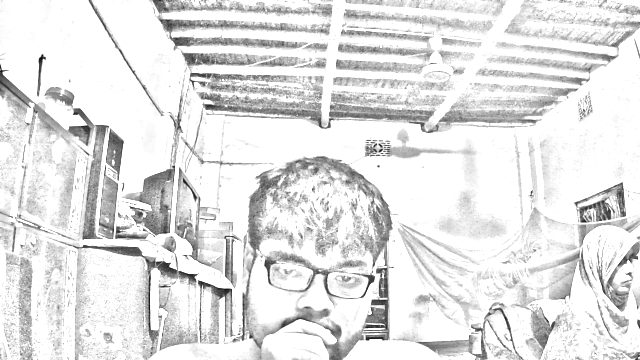
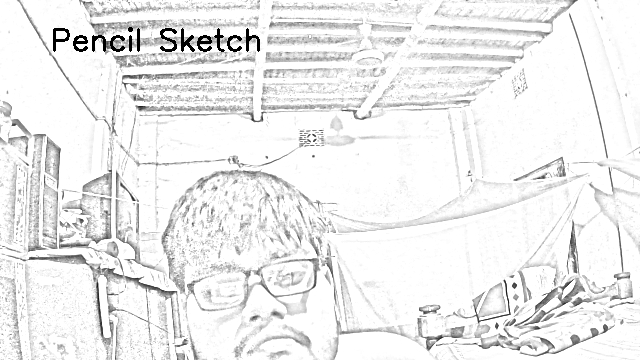
Image To sketch start

diff --git a/main.py b/main.py
@@ -1,118 +1,96 @@
 # Importing library
-import os # System library
+import os
 import cv2
-
+import numpy as np
 
 # Create folders to store output images if they don't exist
-
 output_folder = "output_images"
-
 if not os.path.exists(output_folder):
-
     os.makedirs(output_folder)
 
 # Convert to pencil sketch
 def pencil_sketch(image):
-
     gray_image = cv2.cvtColor(image, cv2.COLOR_BGR2GRAY) # converting to gray scale
 
-    inverted_gray = 255 - gray_image # Adjust the light
+    # Invert the gray image
+    inverted_gray = cv2.bitwise_not(gray_image)
 
-    blurred_image = cv2.GaussianBlur(inverted_gray, (71, 71), 0) # filtering the image
+    # Apply Gaussian blur to the inverted image
+    blurred_image = cv2.GaussianBlur(inverted_gray, (21, 21), 0)
 
-    inverted_blurred = 255 - blurred_image # refiltering
+    # Invert the blurred image
+    inverted_blurred = cv2.bitwise_not(blurred_image)
 
-    pencil_sketch = cv2.divide(gray_image, inverted_blurred, scale=256.0) # marging to get right sketch
+    # Create the pencil sketch by dividing the gray image by the inverted blurred image
+    pencil_sketch = cv2.divide(gray_image, inverted_blurred, scale=256.0)
 
     return pencil_sketch
 
-
-# converting to cartoon image
+# Converting to cartoon image
 def cartoonize(image):
-
     gray_image = cv2.cvtColor(image, cv2.COLOR_BGR2GRAY) # converting to gray scale
-
-    gray_image = cv2.medianBlur(gray_image, 5) # appling medianblur to get cartoon image
-
+    gray_image = cv2.medianBlur(gray_image, 5) # applying median blur to get cartoon image
     edges = cv2.adaptiveThreshold(gray_image, 255, cv2.ADAPTIVE_THRESH_MEAN_C, cv2.THRESH_BINARY, 9, 9)
-
     color_image = cv2.bilateralFilter(image, 9, 300, 300)
-
     cartoon_image = cv2.bitwise_and(color_image, color_image, mask=edges)
 
     return cartoon_image
 
-
 # Main function
 def main():
-
     cap = cv2.VideoCapture(0)
-
     capturing = False
 
-
     while True:
-
         ret, frame = cap.read()
 
-
         if not ret:
-
             break
 
         if capturing:
-
             sketch = pencil_sketch(frame)
-
             cartoon = cartoonize(frame)
 
-
-            cv2.imshow("Pencil Sketch", sketch)
-
-            cv2.imshow("Cartoon Image", cartoon)
-
-            # Save the images in JPG format
-
-            sketch_filename = os.path.join(output_folder, "sketch_image.jpg")
-
-            cartoon_filename = os.path.join(output_folder, "cartoon_image.jpg")
-
-
-            cv2.imwrite(sketch_filename, sketch, [cv2.IMWRITE_JPEG_QUALITY, 100])
-
-            cv2.imwrite(cartoon_filename, cartoon, [cv2.IMWRITE_JPEG_QUALITY, 100])
-
-
-            print(f"Sketch saved as {sketch_filename}")
-
-            print(f"Cartoon image saved as {cartoon_filename}")
-
-
-            capturing = False
-
-
-        else:
+            # Apply visual effects to the camera panel
+           # frame = cv2.flip(frame, 1) # Flip the frame horizontally
+           # frame = cv2.putText(frame, "HACKING IN PROGRESS", (50, 50), cv2.FONT_HERSHEY_SIMPLEX, 1, (0, 0, 255), 2)
 
             cv2.imshow("Camera Frame", frame)
 
+            # Apply visual effects to the output panel
+            sketch = cv2.putText(sketch, "Pencil Sketch", (50, 50), cv2.FONT_HERSHEY_SIMPLEX, 1, (0, 0, 255), 2)
+            cartoon = cv2.putText(cartoon, "Cartoon Image", (50, 50), cv2.FONT_HERSHEY_SIMPLEX, 1, (0, 0, 255), 2)
+
+            cv2.imshow("Pencil Sketch", sketch)
+            cv2.imshow("Cartoon Image", cartoon)
+
+            # Save the images in JPG format
+            sketch_filename = os.path.join(output_folder, "sketch_image.jpg")
+            cartoon_filename = os.path.join(output_folder, "cartoon_image.jpg")
+            cv2.imwrite(sketch_filename, sketch, [cv2.IMWRITE_JPEG_QUALITY, 100])
+            cv2.imwrite(cartoon_filename, cartoon, [cv2.IMWRITE_JPEG_QUALITY, 100])
+
+            print(f"Sketch saved as {sketch_filename}")
+            print(f"Cartoon image saved as {cartoon_filename}")
+
+            capturing = False
+        else:
+            # Apply visual effects to the camera panel
+           # frame = cv2.flip(frame, 1) # Flip the frame horizontally
+           # frame = cv2.putText(frame, "HACKING IN PROGRESS", (50, 50), cv2.FONT_HERSHEY_SIMPLEX, 1, (0, 0, 255), 2)
+          #  frame = np.random.randint(0, 256, frame.shape).astype(np.uint8) # Add random noise
+
+            cv2.imshow("Camera Frame", frame)
 
         key = cv2.waitKey(1)
 
-
         if key == ord('q'):
-
             break
-
         elif key == ord('c'):
-
             capturing = True
 
-
     cap.release()
-
     cv2.destroyAllWindows()
 
-
 if __name__ == "__main__":
-
     main()
